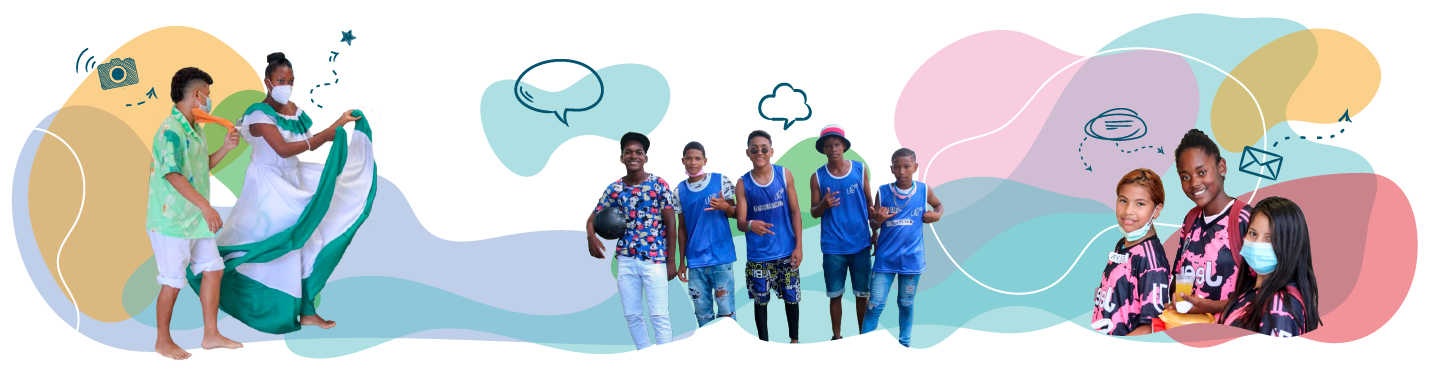
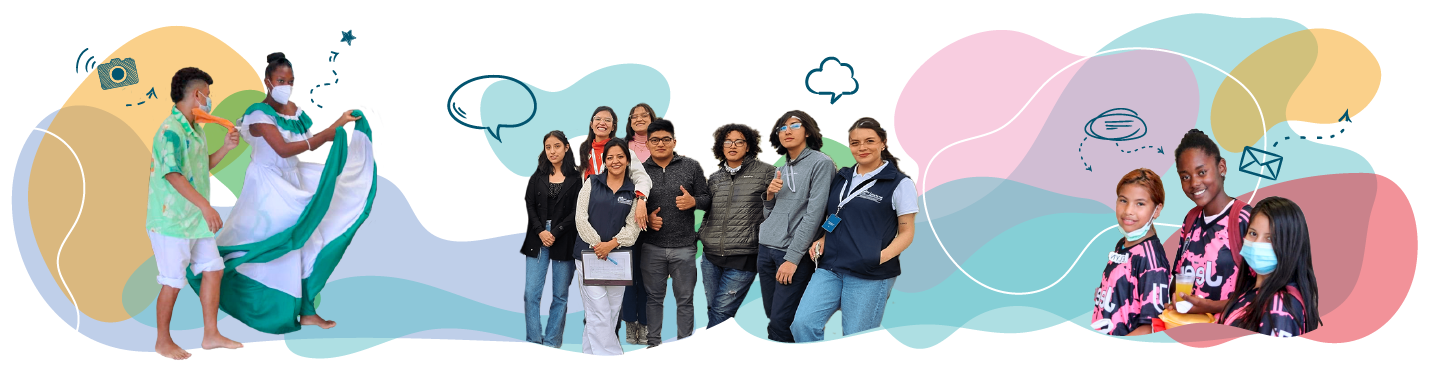
Hero images changed

diff --git a/app/quevedo/page.tsx b/app/quevedo/page.tsx
@@ -99,13 +99,6 @@ export default function Home () {
             priority
           />
         </div>
-        <div className='container mx-10 md:mx-96 mb-10'>
-          <Carousel images={images} />
-        </div>
-      </section>
-
-      {/* ---------- Testimonios ---------- */}
-      <section className="container mx-auto flex flex-col justify-center my-5 lg:my-10 px-8 md:px-16">
         <div className="grid md:grid-cols-2 grid-rows-2 gap-1">
             <div className="flex justify-center md:p-4">
               <Image
@@ -126,7 +119,34 @@ export default function Home () {
               />
             </div>
         </div>
+        <div className='container mt-10 mx-10 md:mx-96 mb-10'>
+          <Carousel images={images} />
+        </div>
       </section>
+
+      {/* ---------- Testimonios ---------- */}
+      {/* <section className="container mx-auto flex flex-col justify-center my-5 lg:my-10 px-8 md:px-16">
+        <div className="grid md:grid-cols-2 grid-rows-2 gap-1">
+            <div className="flex justify-center md:p-4">
+              <Image
+                src="/images/quevedo/testimonio-1-quevedo.png"
+                alt="Primer testimonio"
+                width={576}
+                height={311}
+              />
+            </div>
+            <div className='hidden md:block'></div>
+            <div className='hidden md:block'></div>
+            <div className="flex justify-center md:p-4">
+              <Image
+                src="/images/quevedo/testimonio-2-quevedo.png"
+                alt="Segundo testimonio"
+                width={553}
+                height={306}
+              />
+            </div>
+        </div>
+      </section> */}
 
       {/* ---------- Galería ---------- */}
       {/* <section className="container mx-auto flex flex-col justify-center my-5 lg:my-10 px-8 md:px-16">

diff --git a/app/riobamba/page.tsx b/app/riobamba/page.tsx
@@ -57,13 +57,6 @@ export default function Home () {
             priority
           />
         </div>
-        <div className='container mx-10 md:mx-96 mb-10'>
-          <Carousel images={images} />
-        </div>
-      </section>
-
-      {/* ---------- Testimonios ---------- */}
-      <section className="container mx-auto flex flex-col justify-center my-5 lg:my-10 px-8 md:px-16">
         <div className="grid md:grid-cols-2 grid-rows-2 gap-1">
             <div className="flex justify-center md:p-4">
               <Image
@@ -84,7 +77,34 @@ export default function Home () {
               />
             </div>
         </div>
+        <div className='container mt-10 mx-10 md:mx-96 mb-10'>
+          <Carousel images={images} />
+        </div>
       </section>
+
+      {/* ---------- Testimonios ---------- */}
+      {/* <section className="container mx-auto flex flex-col justify-center my-5 lg:my-10 px-8 md:px-16">
+        <div className="grid md:grid-cols-2 grid-rows-2 gap-1">
+            <div className="flex justify-center md:p-4">
+              <Image
+                src="/images/riobamba/testimonio-1-riobamba.png"
+                alt="Primer testimonio"
+                width={567}
+                height={298}
+              />
+            </div>
+            <div className='hidden md:block'></div>
+            <div className='hidden md:block'></div>
+            <div className="flex justify-center md:p-4">
+              <Image
+                src="/images/riobamba/testimonio-2-riobamba.png"
+                alt="Segundo testimonio"
+                width={553}
+                height={298}
+              />
+            </div>
+        </div>
+      </section> */}
     </main>
   )
 }

diff --git a/app/page.tsx b/app/page.tsx
@@ -34,21 +34,6 @@ export default function Home () {
 
       <section className="container mx-auto flex flex-col justify-center items-center text-center my-5 lg:my-20 px-8 md:px-16">
         <h1 className='text-6xl text-hcadarkblue font-bold mt-10 font-marker'>¡Alza tu Voz!</h1>
-        {/* <p className='text-xl text-black mt-10 text-justify'>
-          El programa Ciudades Saludables para Adolescentes (HCA, por sus siglas en inglés) es una iniciativa de
-          Fundación Botnar para contribuir a la Agenda 2030 y a la implementación de los Objetivos de Desarrollo
-          Sostenible a nivel global, en particular a través de los ODS 3, 11 y 17. A partir de mayo de 2022, se
-          lanzó la fase II del programa HCA, con el objetivo principal de abordar las necesidades de salud y
-          bienestar de los jóvenes (de 14 a 19 años), y Ecuador ha sido seleccionado como uno de los países
-          objetivo donde se ejecutará el programa HCA.
-        </p>
-        <p className='text-xl text-black mt-10 text-justify'>
-          En Ecuador el programa Ciudades Saludables para Adolescentes toma forma a través de la Iniciativa Alza Tu Voz
-          que es implementada por LAB XXI y sus socios locales en Quevedo y Riobamba. El programa busca que los jóvenes
-          se conviertan en agentes de cambio en sus ciudades, levantando su voz y siendo parte del cambio. Estamos diseñando
-          un programa que los impacte a ellos y a ellas en alianza con actors locales, logrando así un rescatar
-          lo mejor de cada sector: jóvenes, sector público, academia, sociedad civil y sector privado.
-        </p> */}
         <MainCarousel texts={texts}/>
       </section>
 

diff --git a/app/alza-tu-voz/page.tsx b/app/alza-tu-voz/page.tsx
@@ -1,7 +1,7 @@
 /* eslint-disable react/no-unescaped-entities */
 import Image from 'next/image'
 import ButtonTwo from '../Components/ButtonTwo'
-import Link from 'next/link'
+// import Link from 'next/link'
 
 export default function Home () {
   return (
@@ -162,8 +162,16 @@ export default function Home () {
 
       {/* ---------- Conócenos ---------- */}
       <section className="container mx-auto flex flex-col justify-center my-5 lg:my-10 px-8 md:px-16">
-        <h2 className='text-3xl text-left text-hcadarkblue font-marker font-bold'>¡Así nos organizamos para alzar nuestras voces!</h2>
-        <h3 className='flex justify-center text-2xl text-hcadarkblue font-marker font-bold mt-10'>Lab XXI</h3>
+        <h2 className='text-3xl text-left text-hcadarkblue font-marker font-bold mb-20'>¡Así nos organizamos para alzar nuestras voces!</h2>
+        <Image
+              src="/images/grupo-nucleo.png"
+              alt="Foto grupo nucleo"
+              width={1352}
+              height={1381}
+              priority
+            />
+
+        {/* <h3 className='flex justify-center text-2xl text-hcadarkblue font-marker font-bold mt-10'>Lab XXI</h3>
         <div className='flex flex-col md:flex-row justify-center gap-10 items-center mt-10 mx-10 lg:mx-32'>
           <Link href='https://lab-xxi.com/' target='_blank'>
             <Image
@@ -259,7 +267,7 @@ export default function Home () {
               promoviendo el uso de herramientas tecnológicas innovadoras y la participación digital.
             </p>
           </div>
-        </div>
+        </div> */}
       </section>
     </main>
   )

diff --git a/app/Components/Header.tsx b/app/Components/Header.tsx
@@ -28,8 +28,8 @@ export default function Header () {
           <Image
             src="/logo-hce.png"
             alt="Logo Healthy Cities Ecuador"
-            width={160}
-            height={122}
+            width={200}
+            height={154}
             priority
           ></Image>
         </Link>
